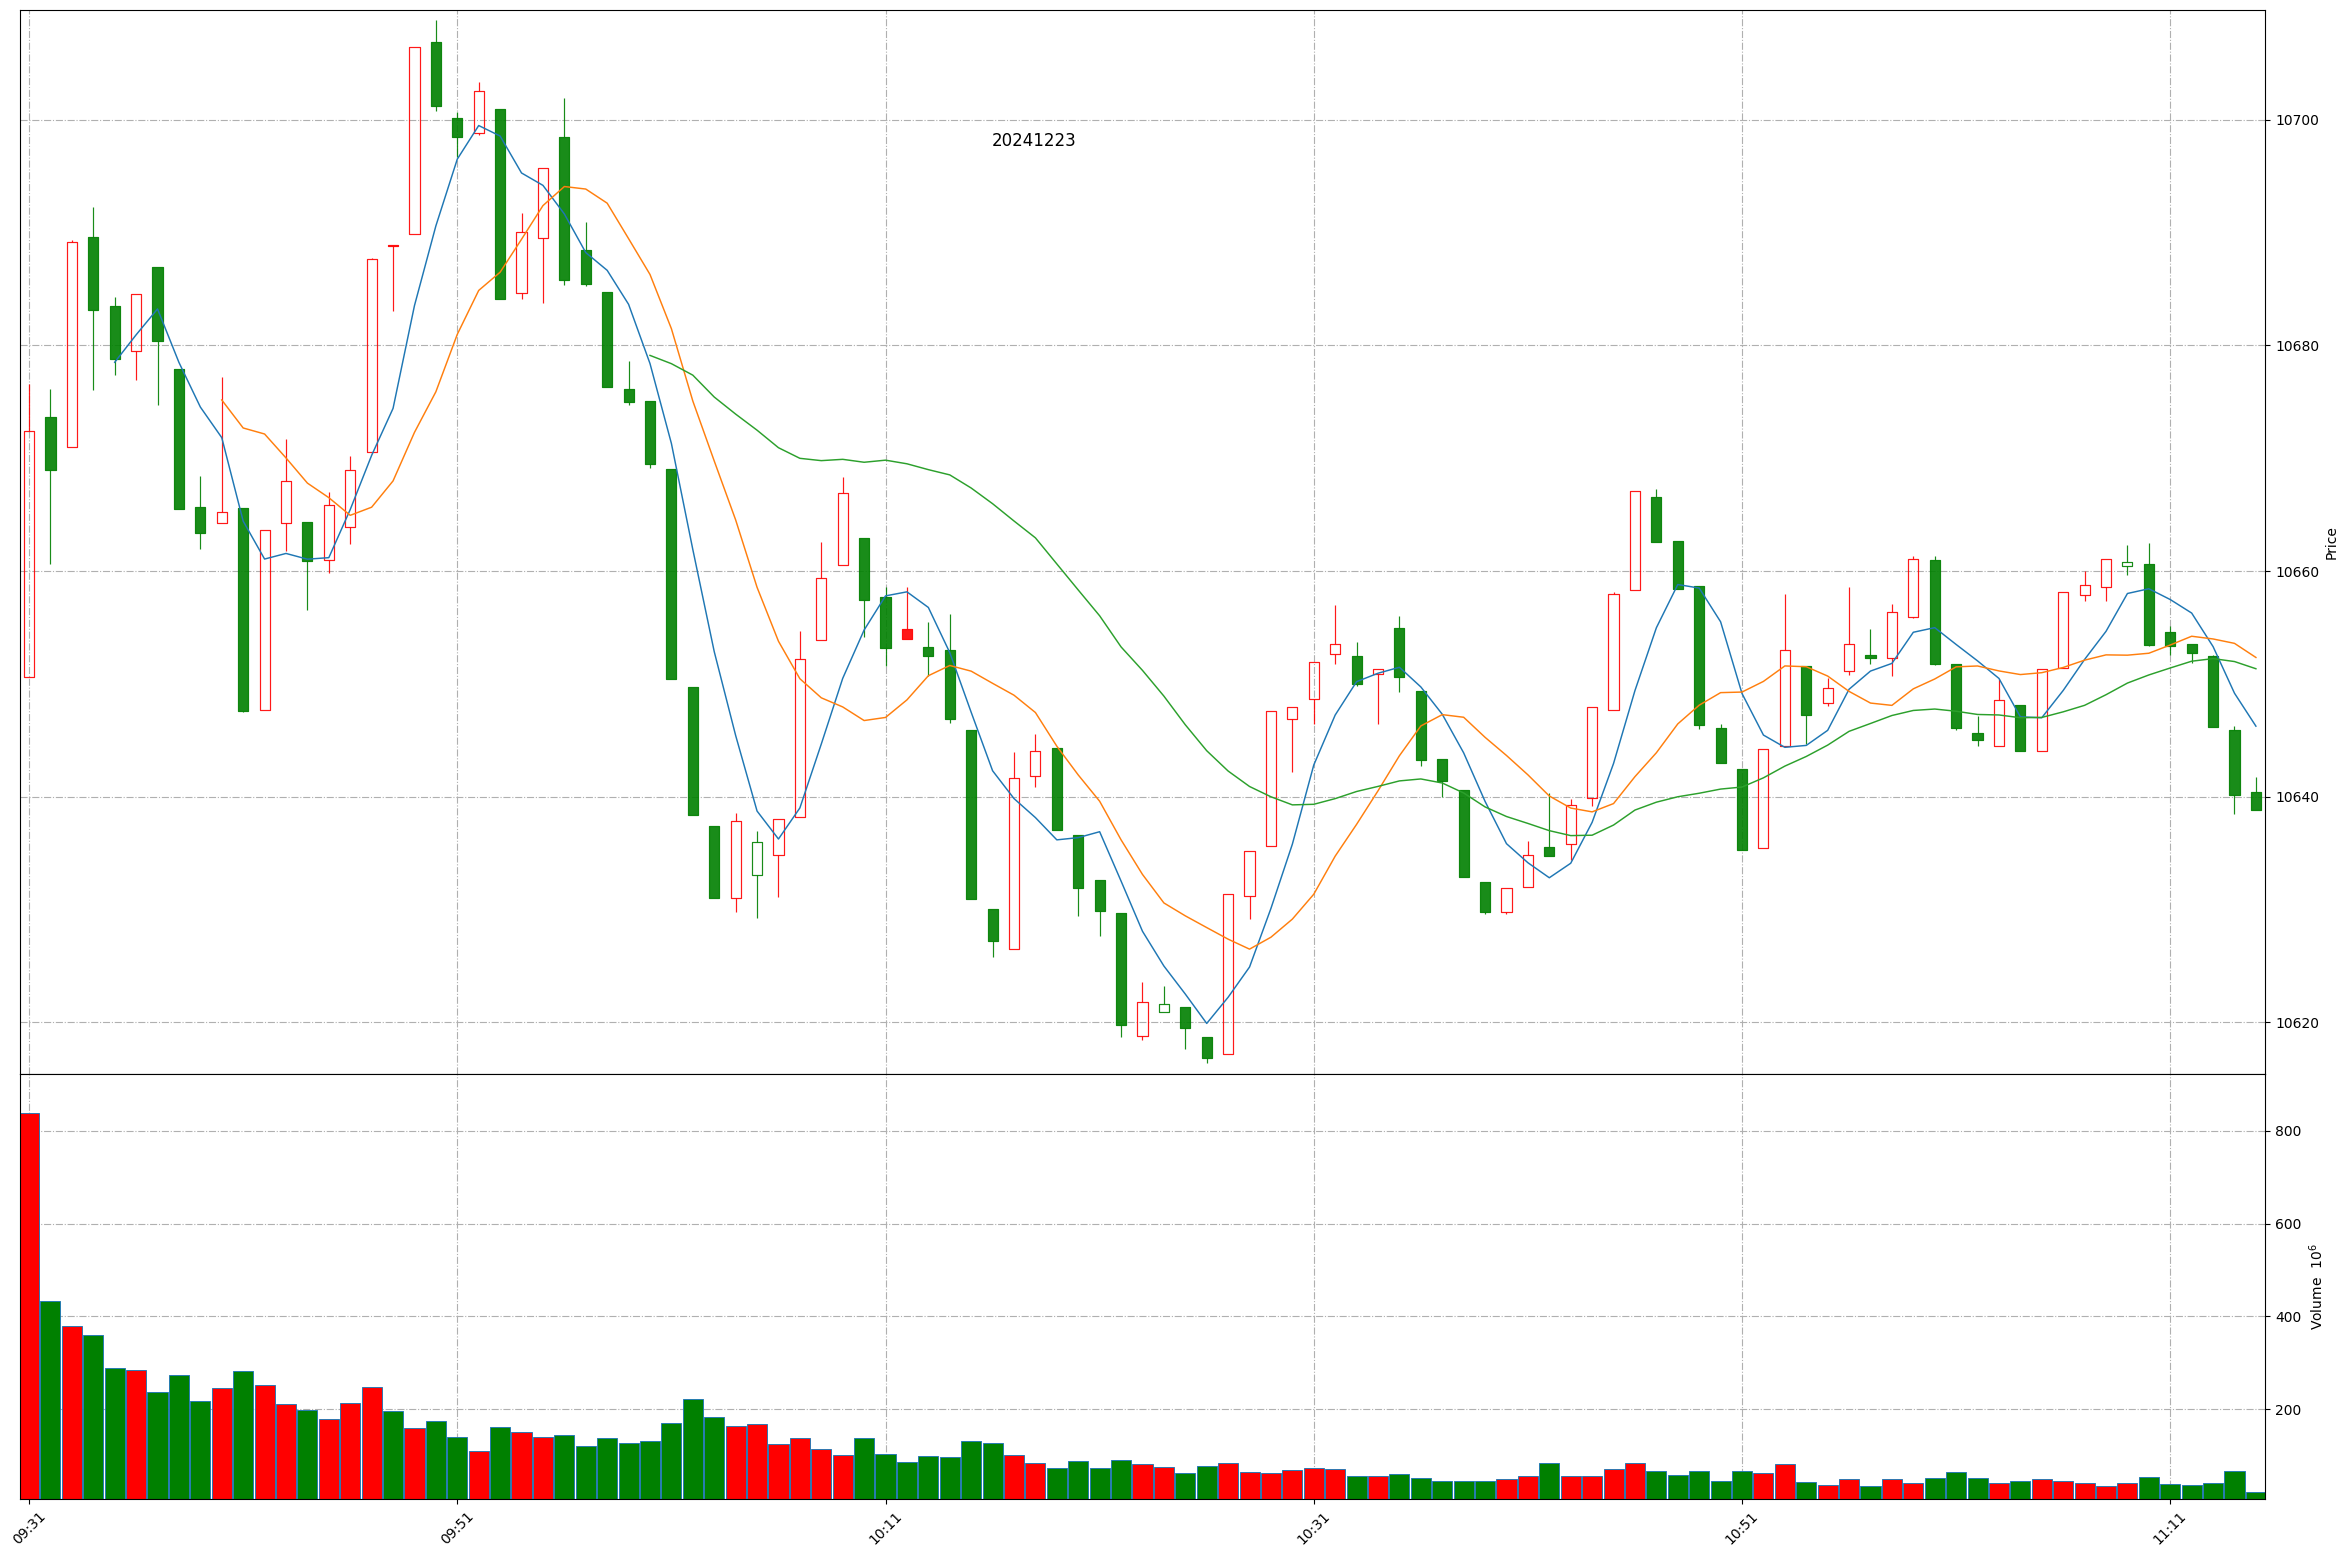
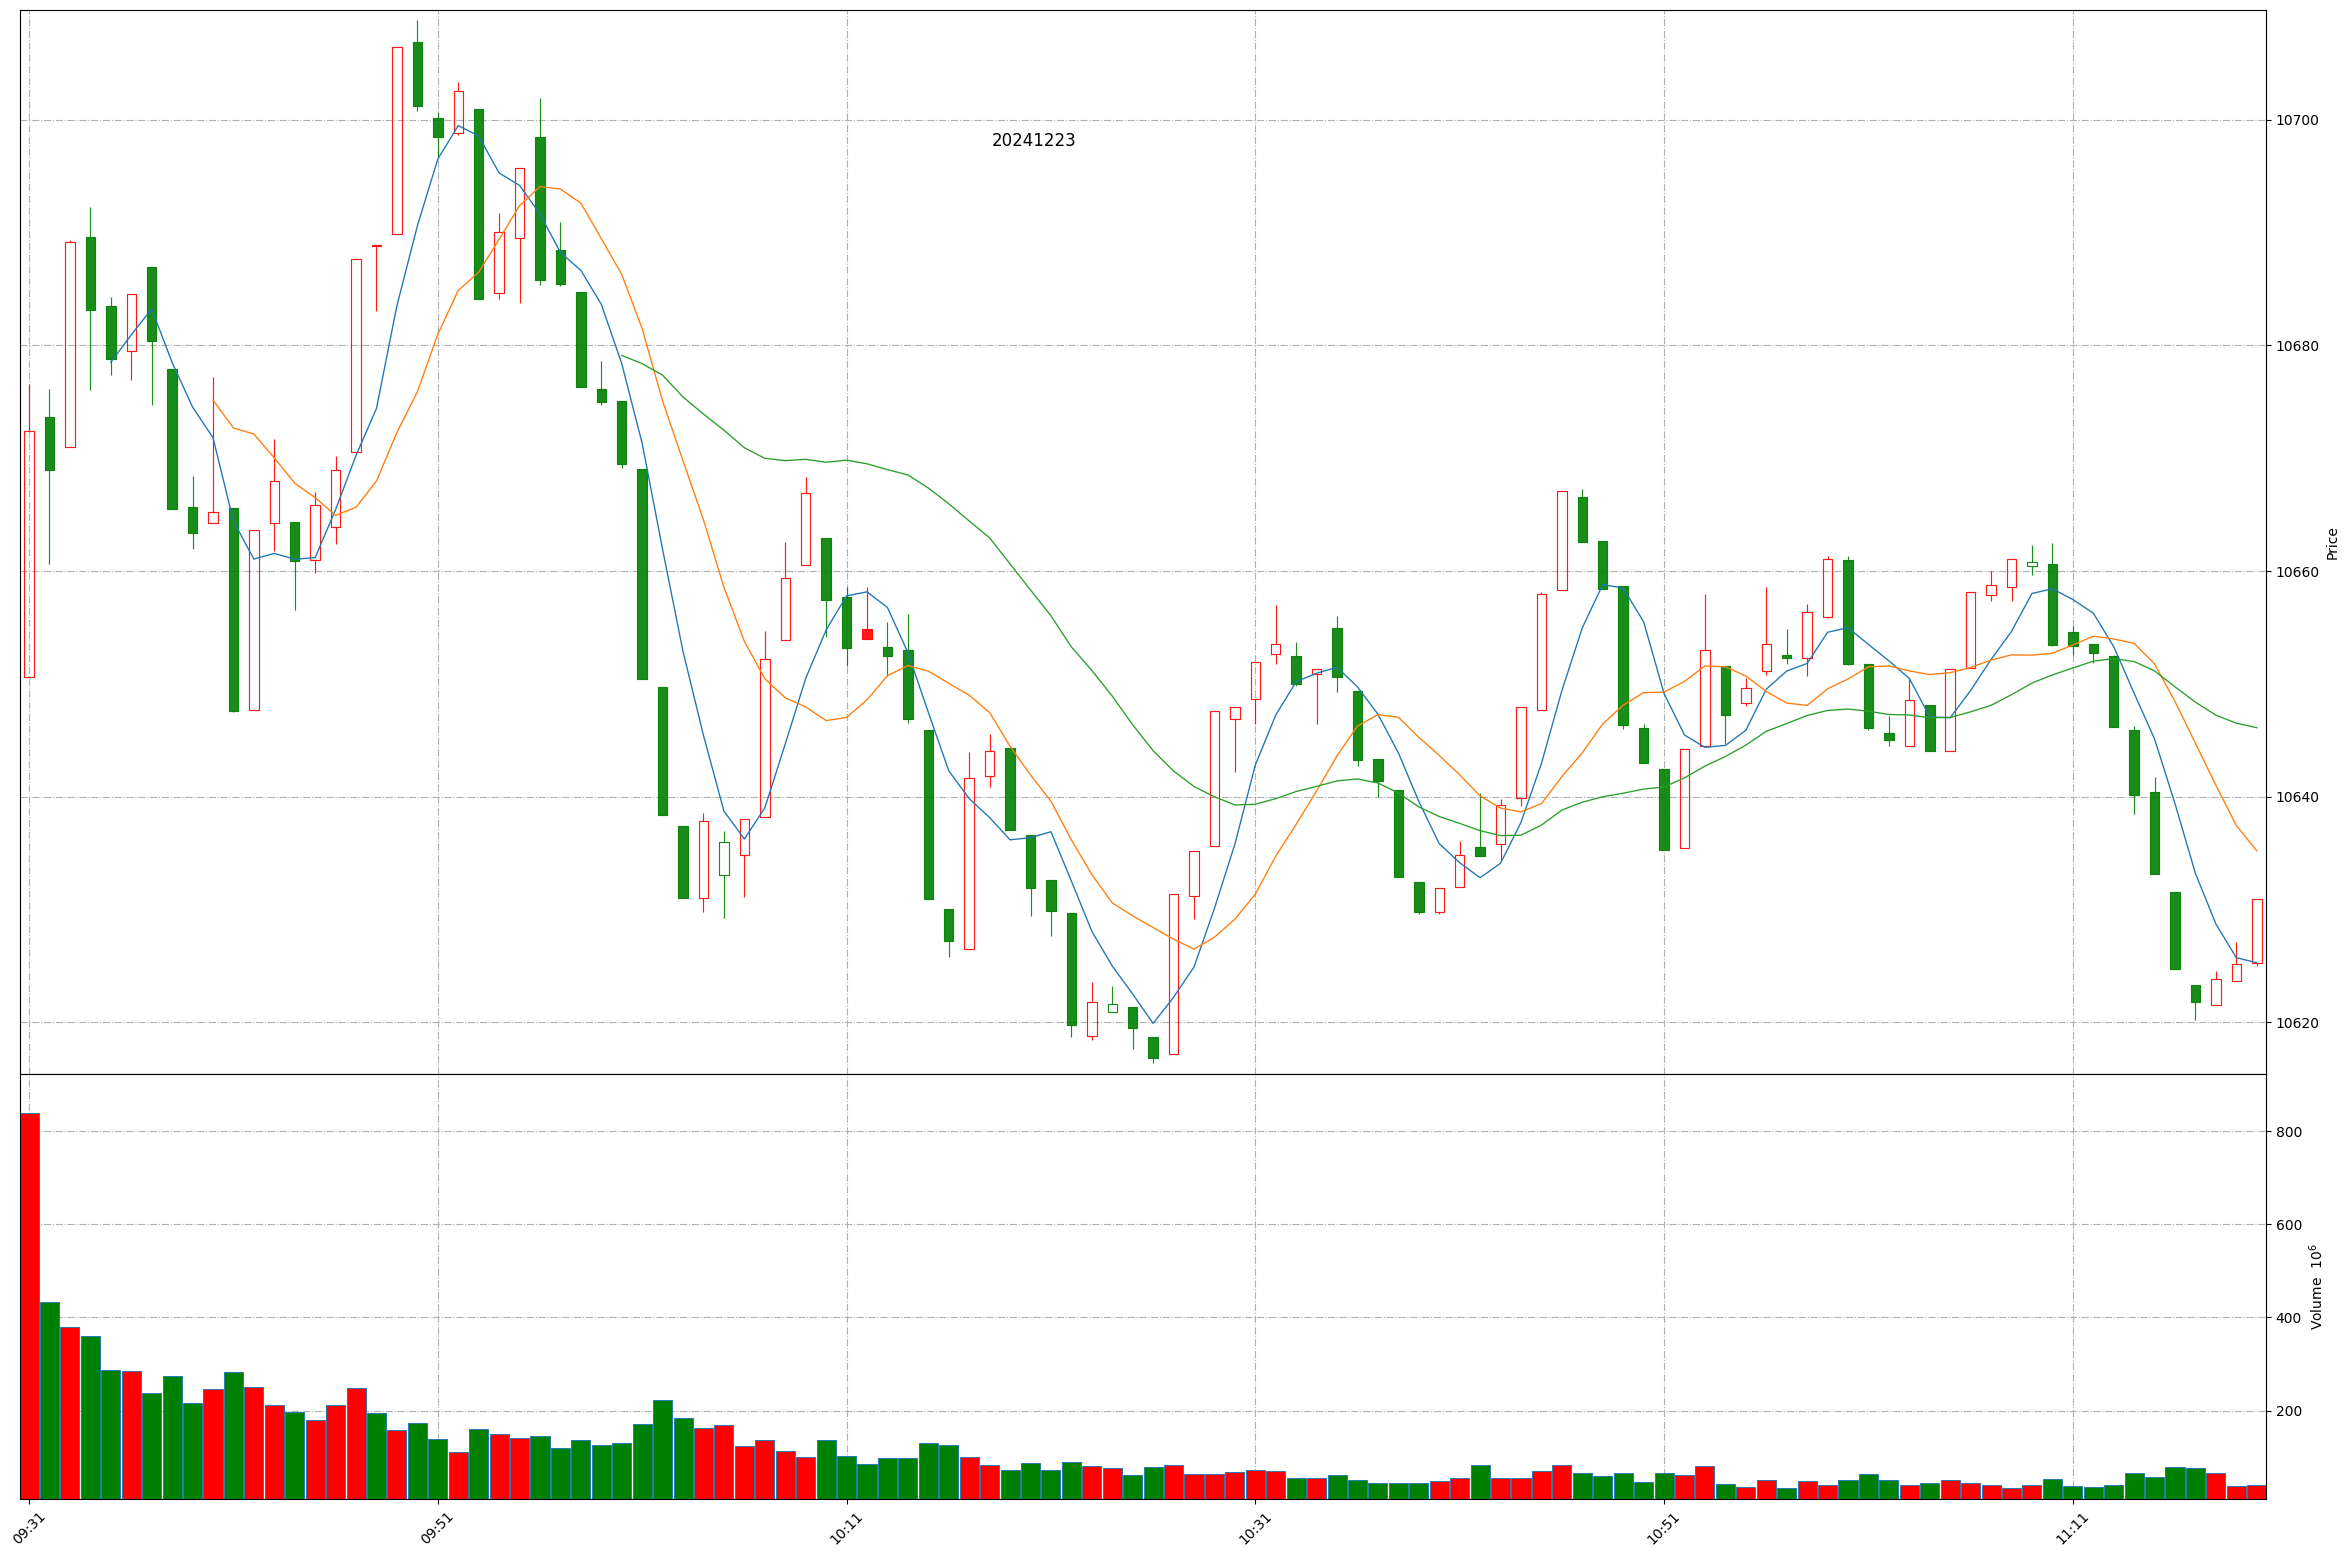
Github action update at 2024-12-23 11:20:08.

Changed region(s): [[0.0311, 0.0308, 0.9638, 0.6782], [0.0311, 0.8632, 0.9638, 0.9865]]

diff --git a/README.md b/README.md
@@ -1,11 +1,11 @@
 
 # Daily-A-share-market-quotes 每日 A 股指数（5min 更新）- 20241223
 
-### 上证指数 20241223 11:14
+### 上证指数 20241223 11:20
 ![](./fig/2024/12/20241223-sh000001.png)
 
-### 深证成指 20241223 11:14
+### 深证成指 20241223 11:20
 ![](./fig/2024/12/20241223-sz399001.png)
 
-### 北证50 20241223 11:14
+### 北证50 20241223 11:20
 ![](./fig/2024/12/20241223-bj899050.png)
